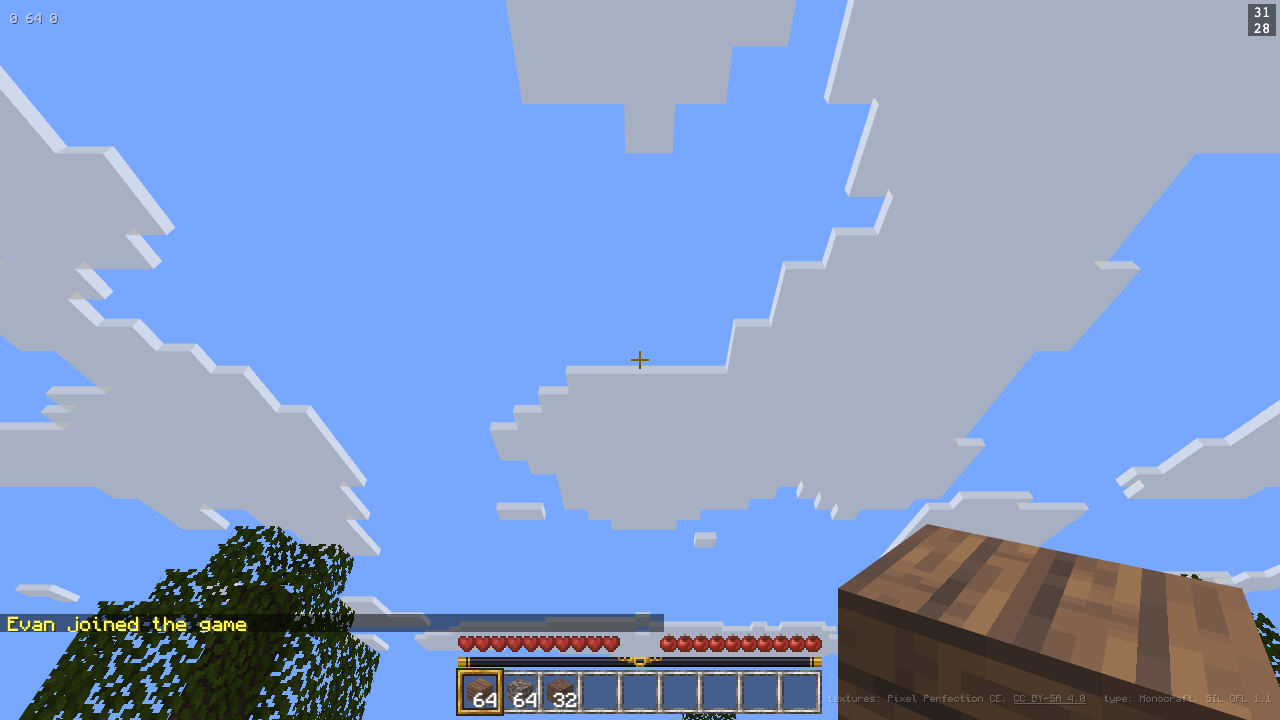
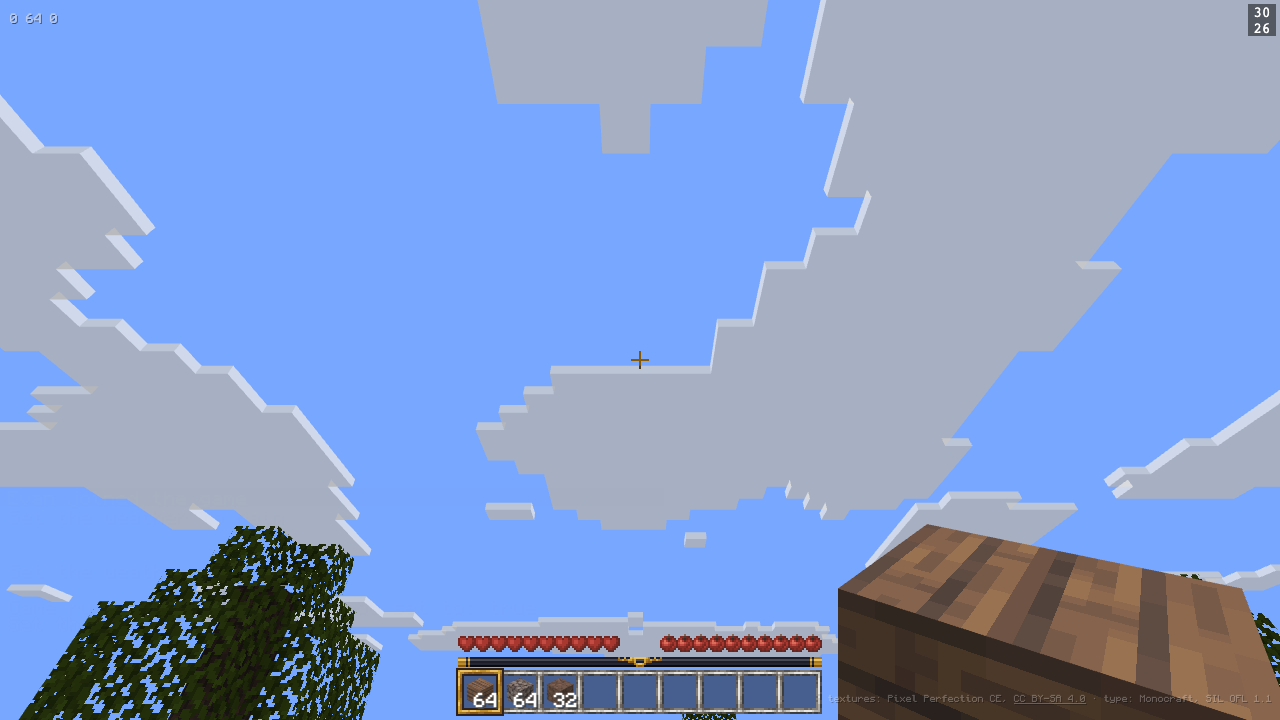
Make the clouds Fancy, and give the world weather
The clouds were Minecraft's FAST mode without anyone naming it: one flat quad
per cell, a paper ceiling from below and edge-on invisible from the side. They
are Fancy now -- a box per cell, 12x12 blocks across and 4 thick, with the
underside at 0.7, north/south at 0.8 and east/west at 0.9 of the top's
brightness. Those four numbers are the whole difference between a cloud you
fly past and a decal on the sky, and they come off 1.21's rendertype_clouds
shader rather than off a screenshot.

Every other cloud constant is vanilla's too: y=192.33 (the 0.33 is real -- the
slab is drawn off the block grid), 0.03 blocks per tick of drift, which is 0.6
a second and travels WEST, alpha 0.8, and getCloudColor's time-of-day curve
with its higher blue floor at night.

ON THE ALTITUDE. 192 is vanilla and 192 stays. What made it read too high was
the layer's RADIUS: at 168 blocks the furthest cloud sat 37 degrees above the
horizon, so the sky ended in a disc directly overhead with nothing receding.
At 576 it reaches to 12 degrees and the layer has a vanishing point, which is
what tells you how far away it is. Vanilla's own radius is 2048 blocks; ours
is the largest that stays under 7000 quads.

The cell field is two octaves of value noise rather than a flat 42% roll. A
random fill was survivable on flat quads and is not on boxes -- scattered
single cells become a field of floating dice, where clouds.png is hand-drawn
blobs dozens of cells wide.
[…]

diff --git a/src/sky.js b/src/sky.js
@@ -246,21 +246,28 @@ function buildCloudLayer(noa, scene) {
   }
 
   const half = (CLOUD_GRID * CLOUD_CELL) / 2
-  // Cells outside the grid count as empty, so the rim of the layer keeps its
-  // side faces. Testing the hash instead would cull faces against neighbours
-  // that are never drawn and leave the edge cells open.
-  const filled = (i, j) =>
-    i >= 0 && j >= 0 && i < CLOUD_GRID && j < CLOUD_GRID && cellFilled(i, j)
+  const R = CLOUD_GRID / 2
+  /*
+   * Clipped to a CIRCLE, as 1.21.6+ clips its own layer: the corners of a
+   * square reach 40% further than its edges, and the only thing a player can
+   * tell from that is that the sky ends in a straight line over there.
+   *
+   * Anything outside the circle counts as EMPTY rather than as absent, which
+   * is what keeps the rim's side faces: testing cellFilled alone would cull
+   * each edge face against a neighbour that is never drawn and leave the rim
+   * open, so the layer would be a ring of doorless rooms seen from below.
+   */
+  const filled = (i, j) => {
+    if (i < 0 || j < 0 || i >= CLOUD_GRID || j >= CLOUD_GRID) return false
+    const ci = i - R + 0.5, cj = j - R + 0.5
+    if (ci * ci + cj * cj > R * R) return false
+    return cellFilled(i, j)
+  }
 
   let cells = 0
   for (let i = 0; i < CLOUD_GRID; i++) {
     for (let j = 0; j < CLOUD_GRID; j++) {
       if (!filled(i, j)) continue
-      // Circular, as 1.21.6+ is: the corners of a square layer are 40% further
-      // away than its edges, and all a player can tell is that the sky ends
-      // in a straight line over there.
-      const ci = i - CLOUD_GRID / 2 + 0.5, cj = j - CLOUD_GRID / 2 + 0.5
-      if (ci * ci + cj * cj > (CLOUD_GRID / 2) * (CLOUD_GRID / 2)) continue
       cells++
       const x0 = i * CLOUD_CELL - half, x1 = x0 + CLOUD_CELL
       const z0 = j * CLOUD_CELL - half, z1 = z0 + CLOUD_CELL
@@ -280,9 +287,9 @@ function buildCloudLayer(noa, scene) {
   vd.positions = new Float32Array(positions)
   vd.colors = new Float32Array(colors)
   /*
-   * 32-bit indices, because ~10k quads is 40k vertices and a 16-bit index
-   * buffer tops out at 65k -- one Uint16Array away from a layer that silently
-   * folds in on itself. Babylon picks the width from the array type.
+   * 32-bit indices, because ~6800 quads is 27k vertices and a 16-bit index
+   * buffer tops out at 65k -- one CLOUD_GRID bump away from a layer that
+   * silently folds in on itself. Babylon picks the width from the array type.
    */
   vd.indices = new Uint32Array(indices)
   vd.applyToMesh(layer, false)

diff --git a/src/weather.js b/src/weather.js
@@ -166,6 +166,13 @@ export function installWeather(noa, { sky, authority, sounds = null } = {}) {
   function strike() {
     bolts++
     flashTicks = FLASH_TICKS
+    /*
+     * Pushed to the sky HERE as well as from the tick below, because sky.js
+     * registered its tick handler first and therefore reads these levels one
+     * tick before this module writes them. A 33 ms lag is nothing for a storm
+     * rolling in over five seconds and is a third of a lightning flash.
+     */
+    sky.setWeatherLevels({ rain: rainLevel, thunder: thunderLevel * rainLevel, flash: 1 })
     // Vanilla plays entity.lightning_bolt.thunder at the strike, at a volume
     // that carries for 256 blocks. Distance is what makes one clap a crack and
     // the next a rumble, and here there is no bolt to measure it from.
